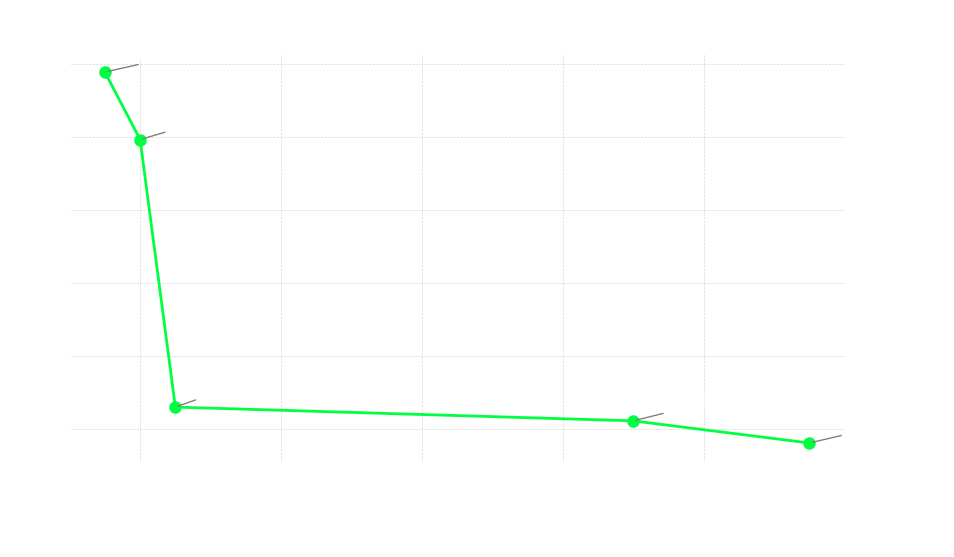
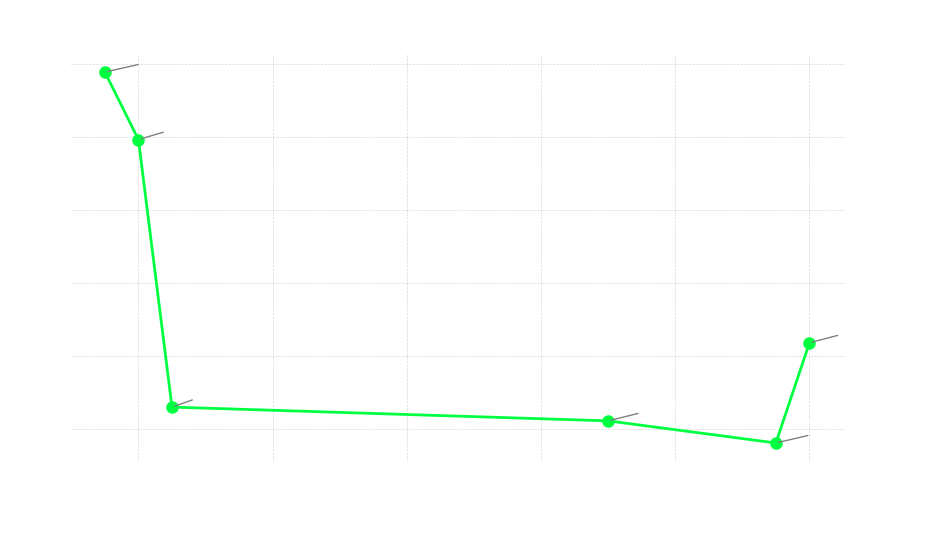
Locking Bugfix Performance

Changed region(s): [[0.2783, 0.6104, 0.8657, 0.8241], [0.1237, 0.1831, 0.1546, 0.3357], [0.0928, 0.1221, 0.1237, 0.1526]]

diff --git a/gen_graph.py b/gen_graph.py
@@ -11,7 +11,8 @@ data = [
     ("2026-01-05", 248.14, "Action Pruning"),
     ("2026-01-06", 65.3, "Wordle LUT"),
     ("2026-01-19", 55.89, "FastBitset Iterator"),
-    ("2026-01-24", 40.77, "SIMD State Pruning")
+    ("2026-01-24", 40.77, "SIMD State Pruning"),
+    ("2026-01-25", 109.23, "Locking Bugfix :(")
 ]
 # ----------------------
 
